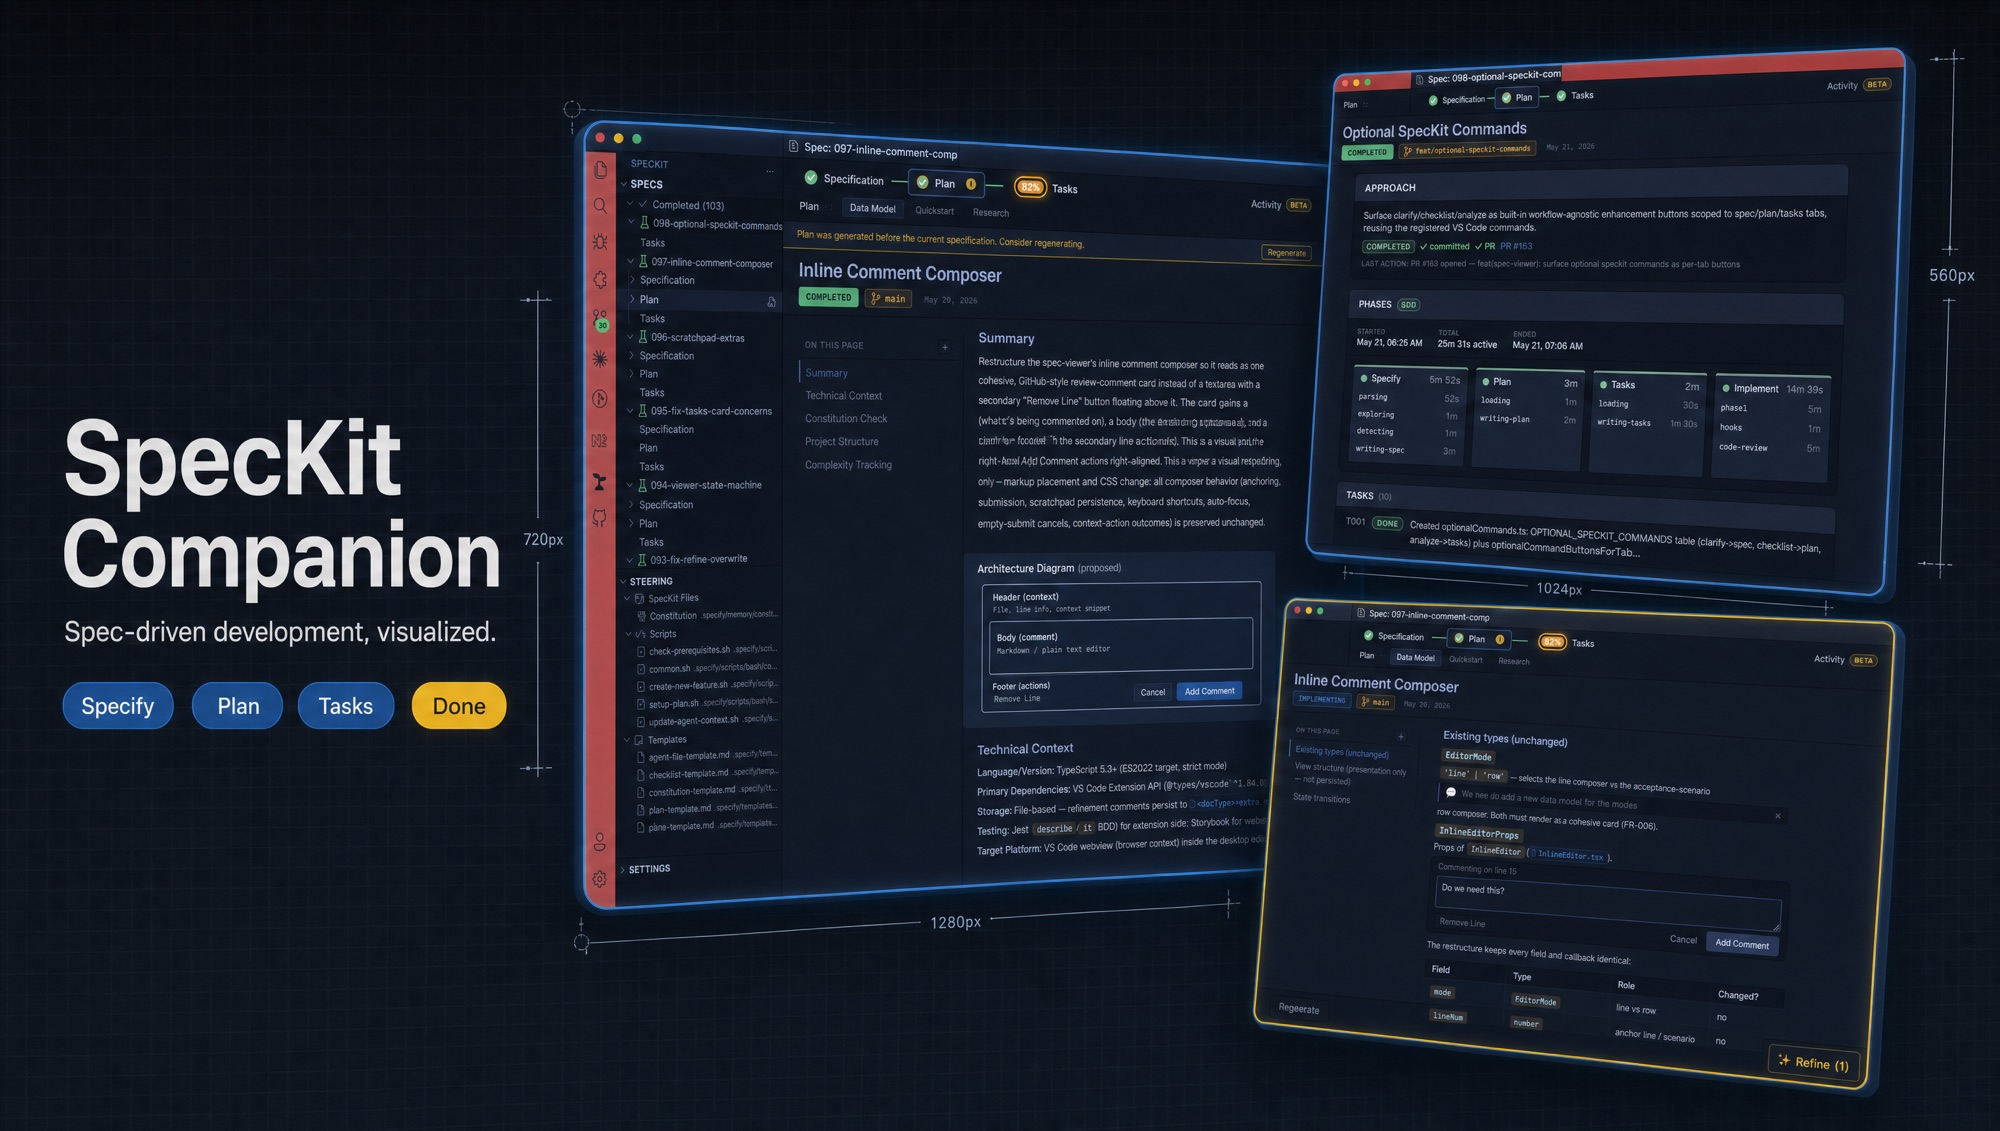
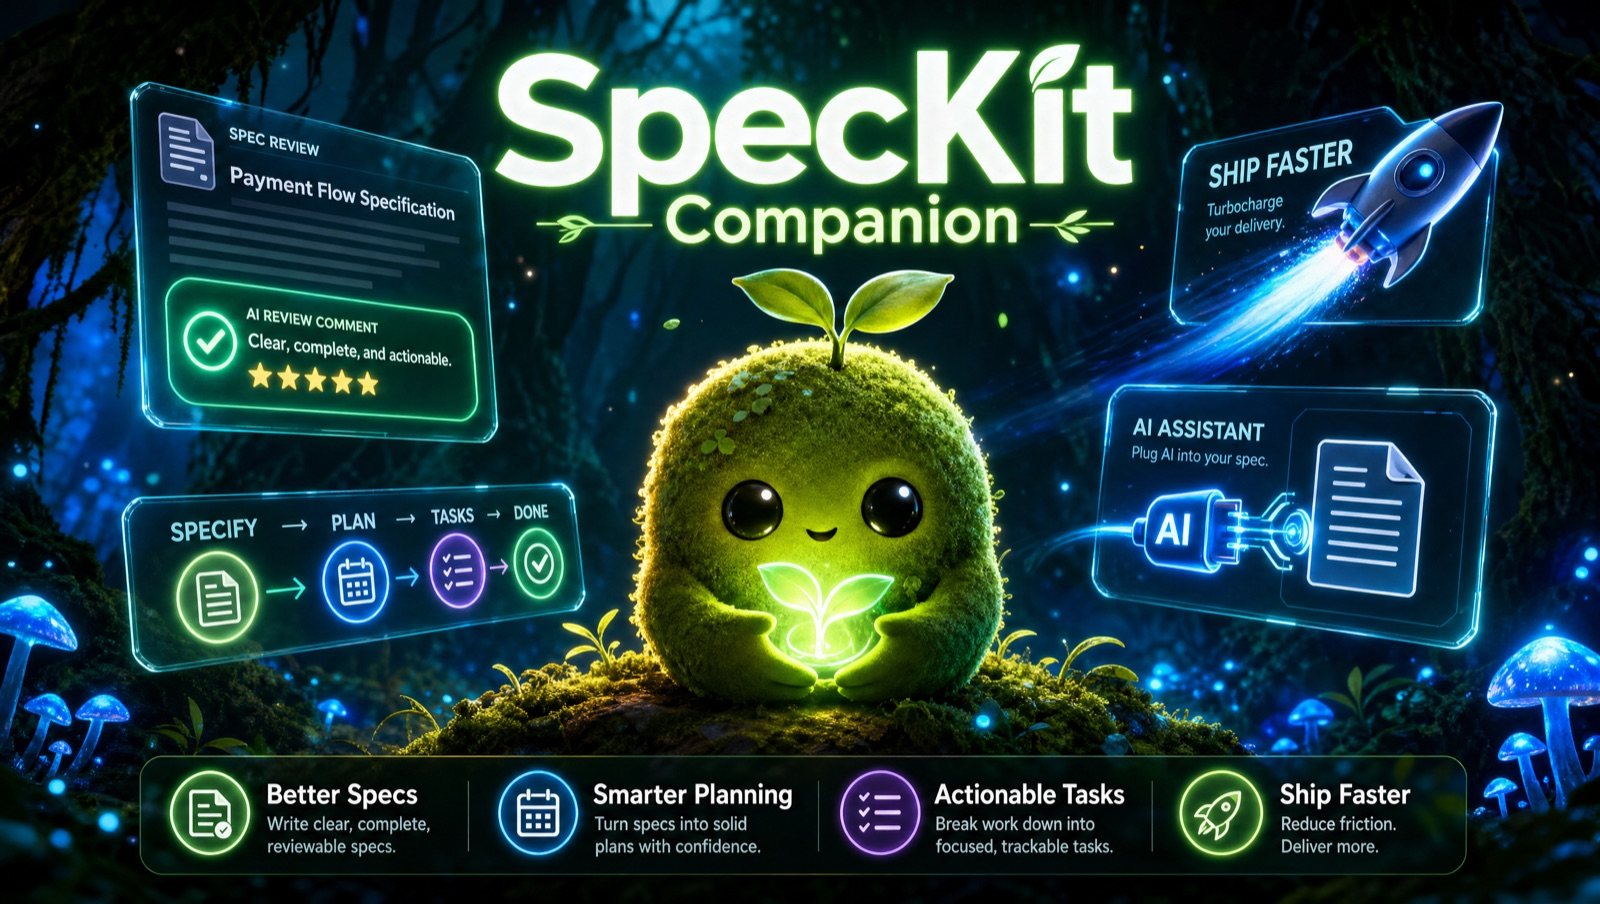
polish(launch): concise beta-setting descriptions + final README art
- Rewrite the 6 beta-feature setting descriptions to be concise/readable;
  fix complexityFastPath wording (folds plan+tasks → ready-to-implement,
  not 'skip to implement').
- Add README hero + 3 images (amoss mascot, dark twilight / luminescent
  style): hero, benefits strip, honest 'what you unlock' feature list
  (no fake UI), and the off/standard/turbo comparison.

diff --git a/README.md b/README.md
@@ -18,8 +18,7 @@ A spec workspace that turns AI-assisted, spec-driven development into something 
 - **Run leaner with Turbo.** Opt into the companion spec-kit extension's trimmed `/speckit.companion.*` pipeline — smaller specs, files-and-dependencies tasks, an optional fast-path for small changes — without giving up the stock flow.
 - **Bring your own AI and your own workflow.** Eight providers, custom phases, custom commands. Drop in your own SDD process; the sidebar and viewer adapt.
 
-<!-- 🎨 IMAGE: A clean four-up benefit strip in the SpecKit Companion neo-brutalist style (cream background, black borders + drop shadows, Lilita-caps labels, teal/blue/gold/coral accents). Four labeled tiles left-to-right: "Review specs like code" (a spec line with an inline comment bubble), "See every phase" (a Specify→Plan→Tasks→Done stepper), "Turbo mode" (a small rocket over a compact spec folder), "Any AI, any workflow" (a plug icon feeding markdown). 16:9, no photoreal, flat vector. -->
-![What you get: review specs like code, see every phase, turbo mode, any AI and any workflow](docs/screenshots/benefits-strip.png)
+![What you get: review specs like code, see every phase, turbo mode, any AI and any workflow](https://raw.githubusercontent.com/alfredoperez/speckit-companion/main/docs/screenshots/benefits-strip.jpg)
 
 ## Recently Shipped
 
@@ -166,8 +165,7 @@ specify extension add companion --from https://github.com/alfredoperez/speckit-c
 
 **Update it later** from the Specs view **Upgrade…** menu → *Update spec-kit Extension* (runs the same install with `--force`).
 
-<!-- 🎨 IMAGE: A two-panel "before / after" in the neo-brutalist theme. LEFT panel ("Missing"): the Create-Spec dialog with a teal-accented install banner reading "Install the spec-kit extension to unlock Turbo & Capture" and an "Install spec-kit extension" button. RIGHT panel ("Installed"): the same dialog with the banner gone and a Turbo workflow option visible in the dropdown. A bold arrow between them. 16:9, flat vector, cream bg, black borders + shadows. -->
-![Install banner in the Create-Spec panel before install, and the clean panel with Turbo available after](docs/screenshots/install-banner.png)
+![What installing the spec-kit extension unlocks: live progress capture, status, resume, the turbo pipeline, the complexity fast-path, and honest state recovery](https://raw.githubusercontent.com/alfredoperez/speckit-companion/main/docs/screenshots/install-banner.jpg)
 
 ## Setup & Components
 
@@ -305,8 +303,7 @@ Which mode should you pick? The short version:
 
 *(Numbers above are produced by running `/eval-speckit-extension` across `standard` / `turbo` / `off` and recording the deltas; this section is left as placeholders until that eval runs so no figures are fabricated.)*
 
-<!-- 🎨 IMAGE: A neo-brutalist comparison chart: three vertical bars labeled "off", "standard", "turbo" showing relative spec size / time, turbo clearly the shortest, with a teal "fastest" tag on turbo and a gold "full ceremony" tag on standard. Cream bg, black borders + drop shadows, Lilita-caps labels. Leave the numeric axis unlabeled (placeholder for eval data). 16:9, flat vector. -->
-![Mode comparison chart: off vs standard vs turbo](docs/screenshots/mode-comparison.png)
+![Mode comparison chart: off vs standard vs turbo, with turbo the fastest to results](https://raw.githubusercontent.com/alfredoperez/speckit-companion/main/docs/screenshots/mode-comparison.jpg)
 
 ### Complexity Fast-Path
 